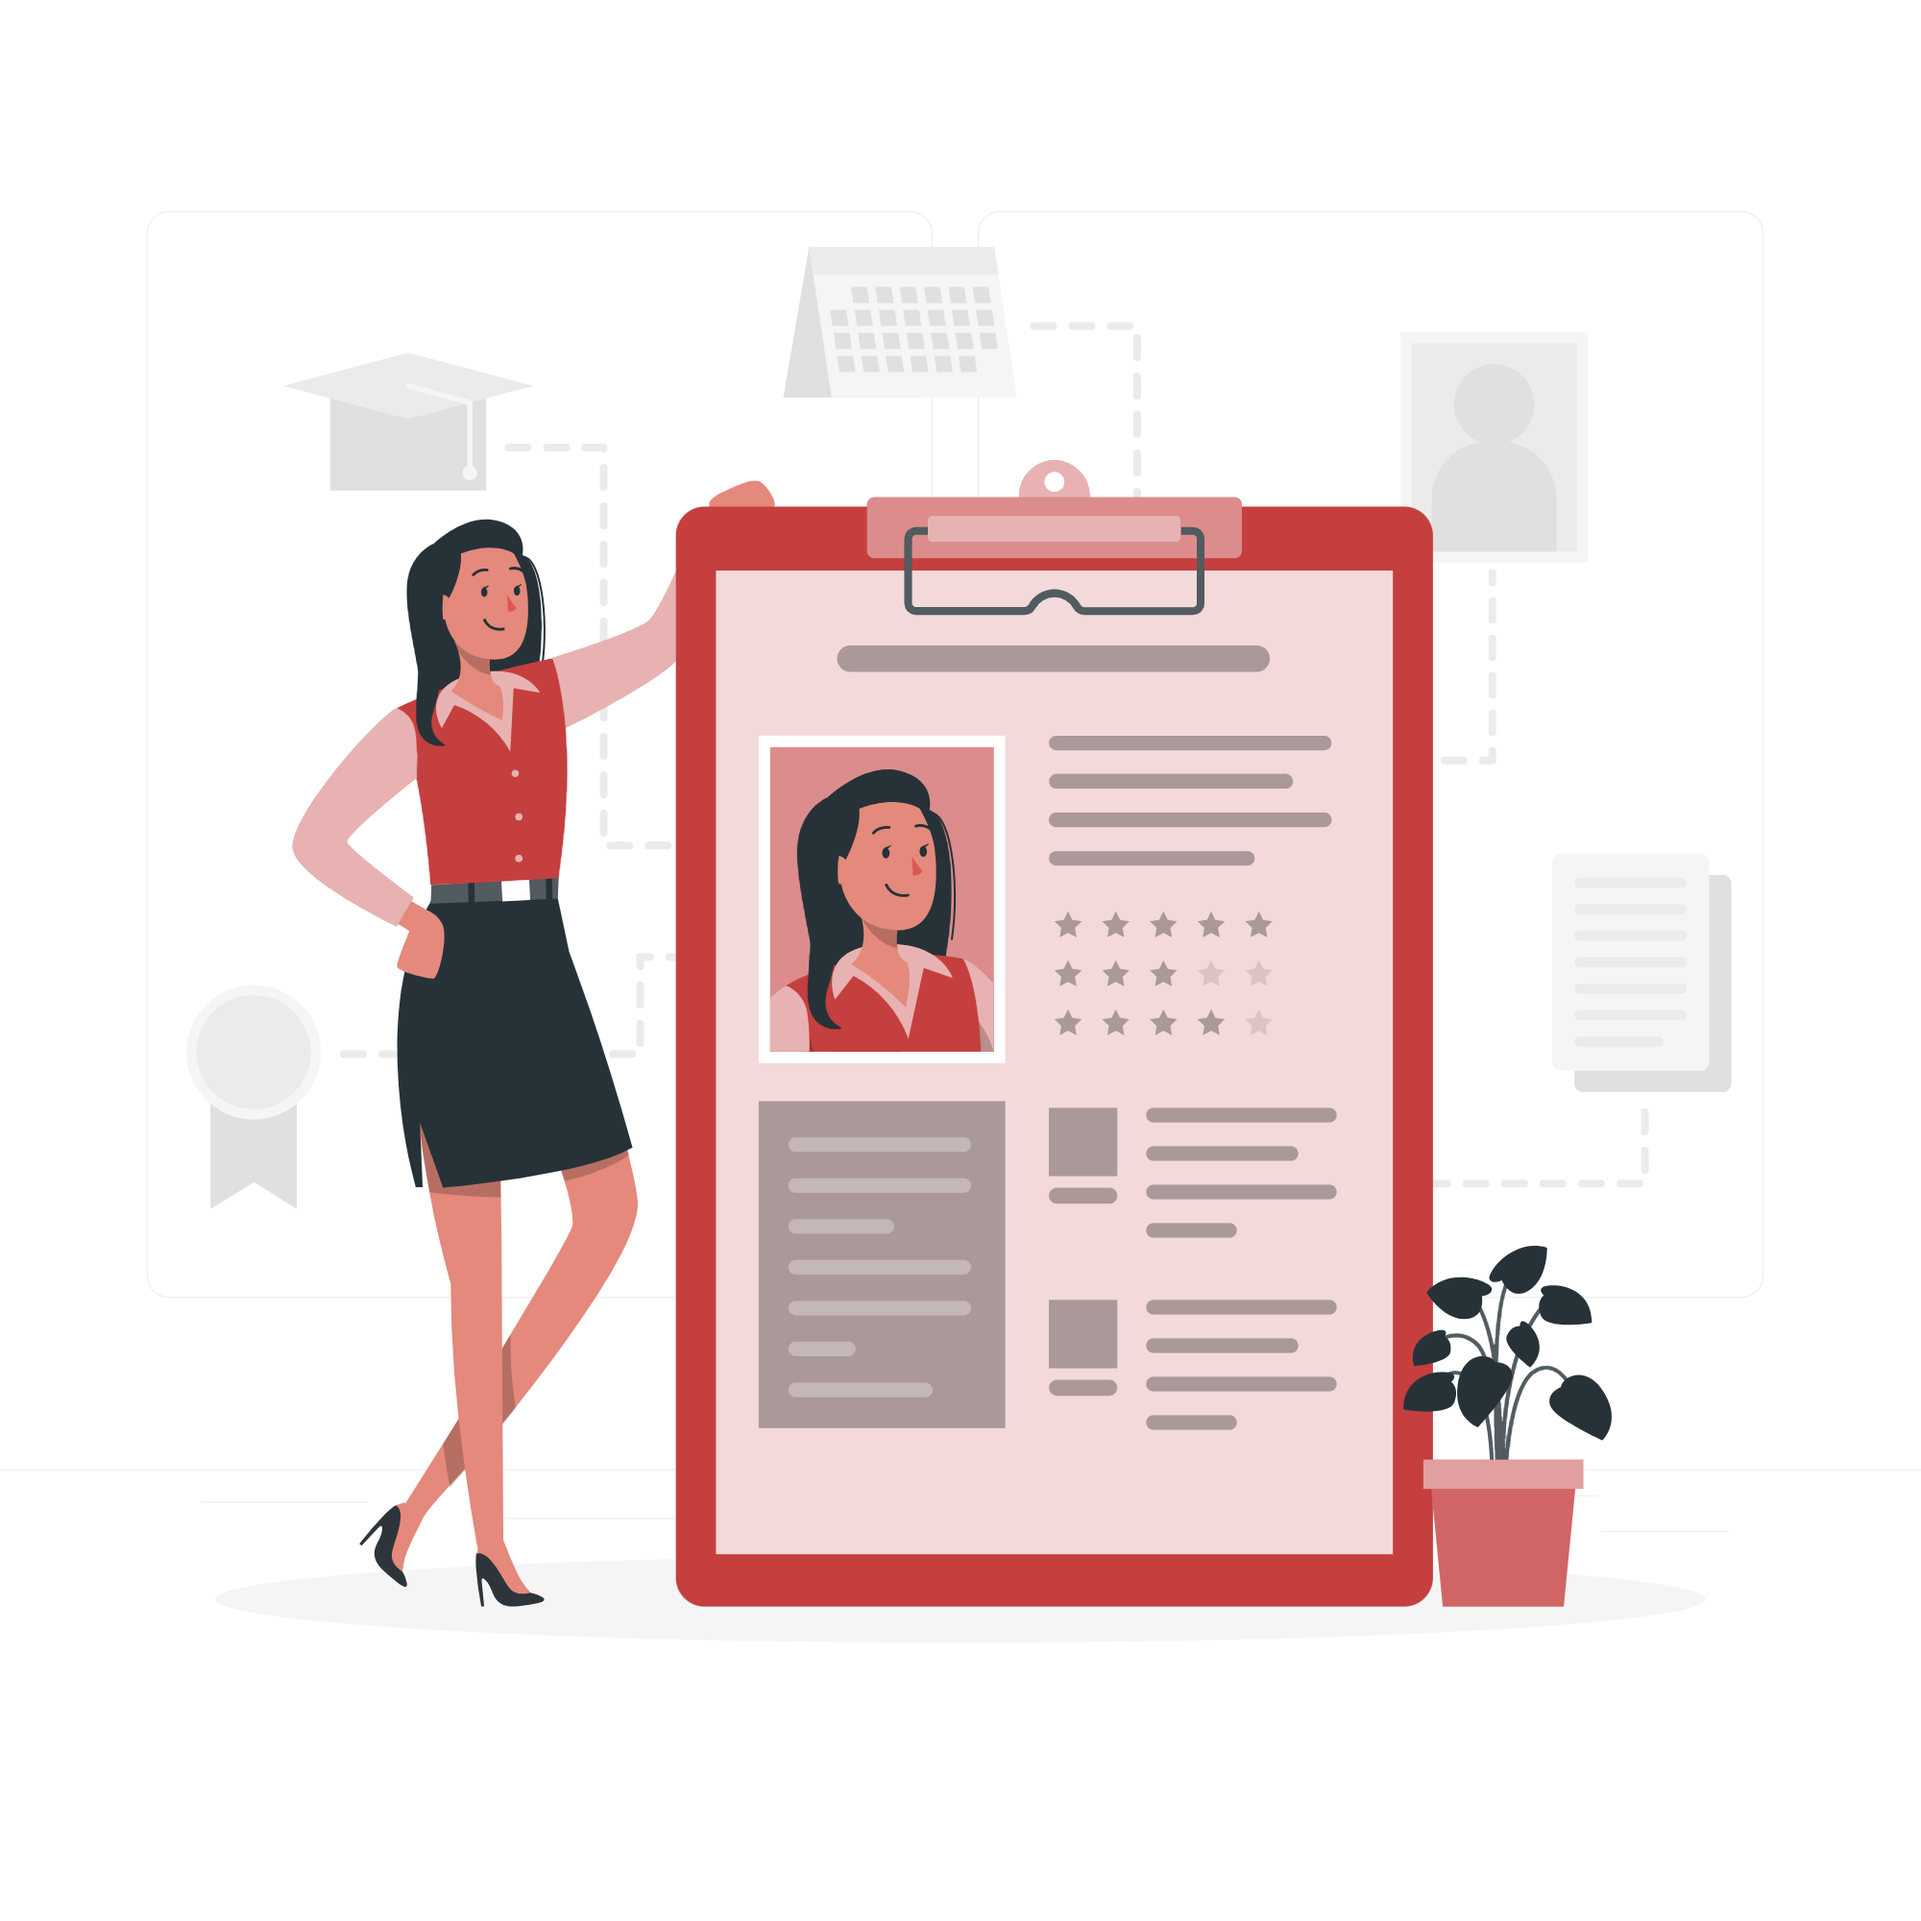
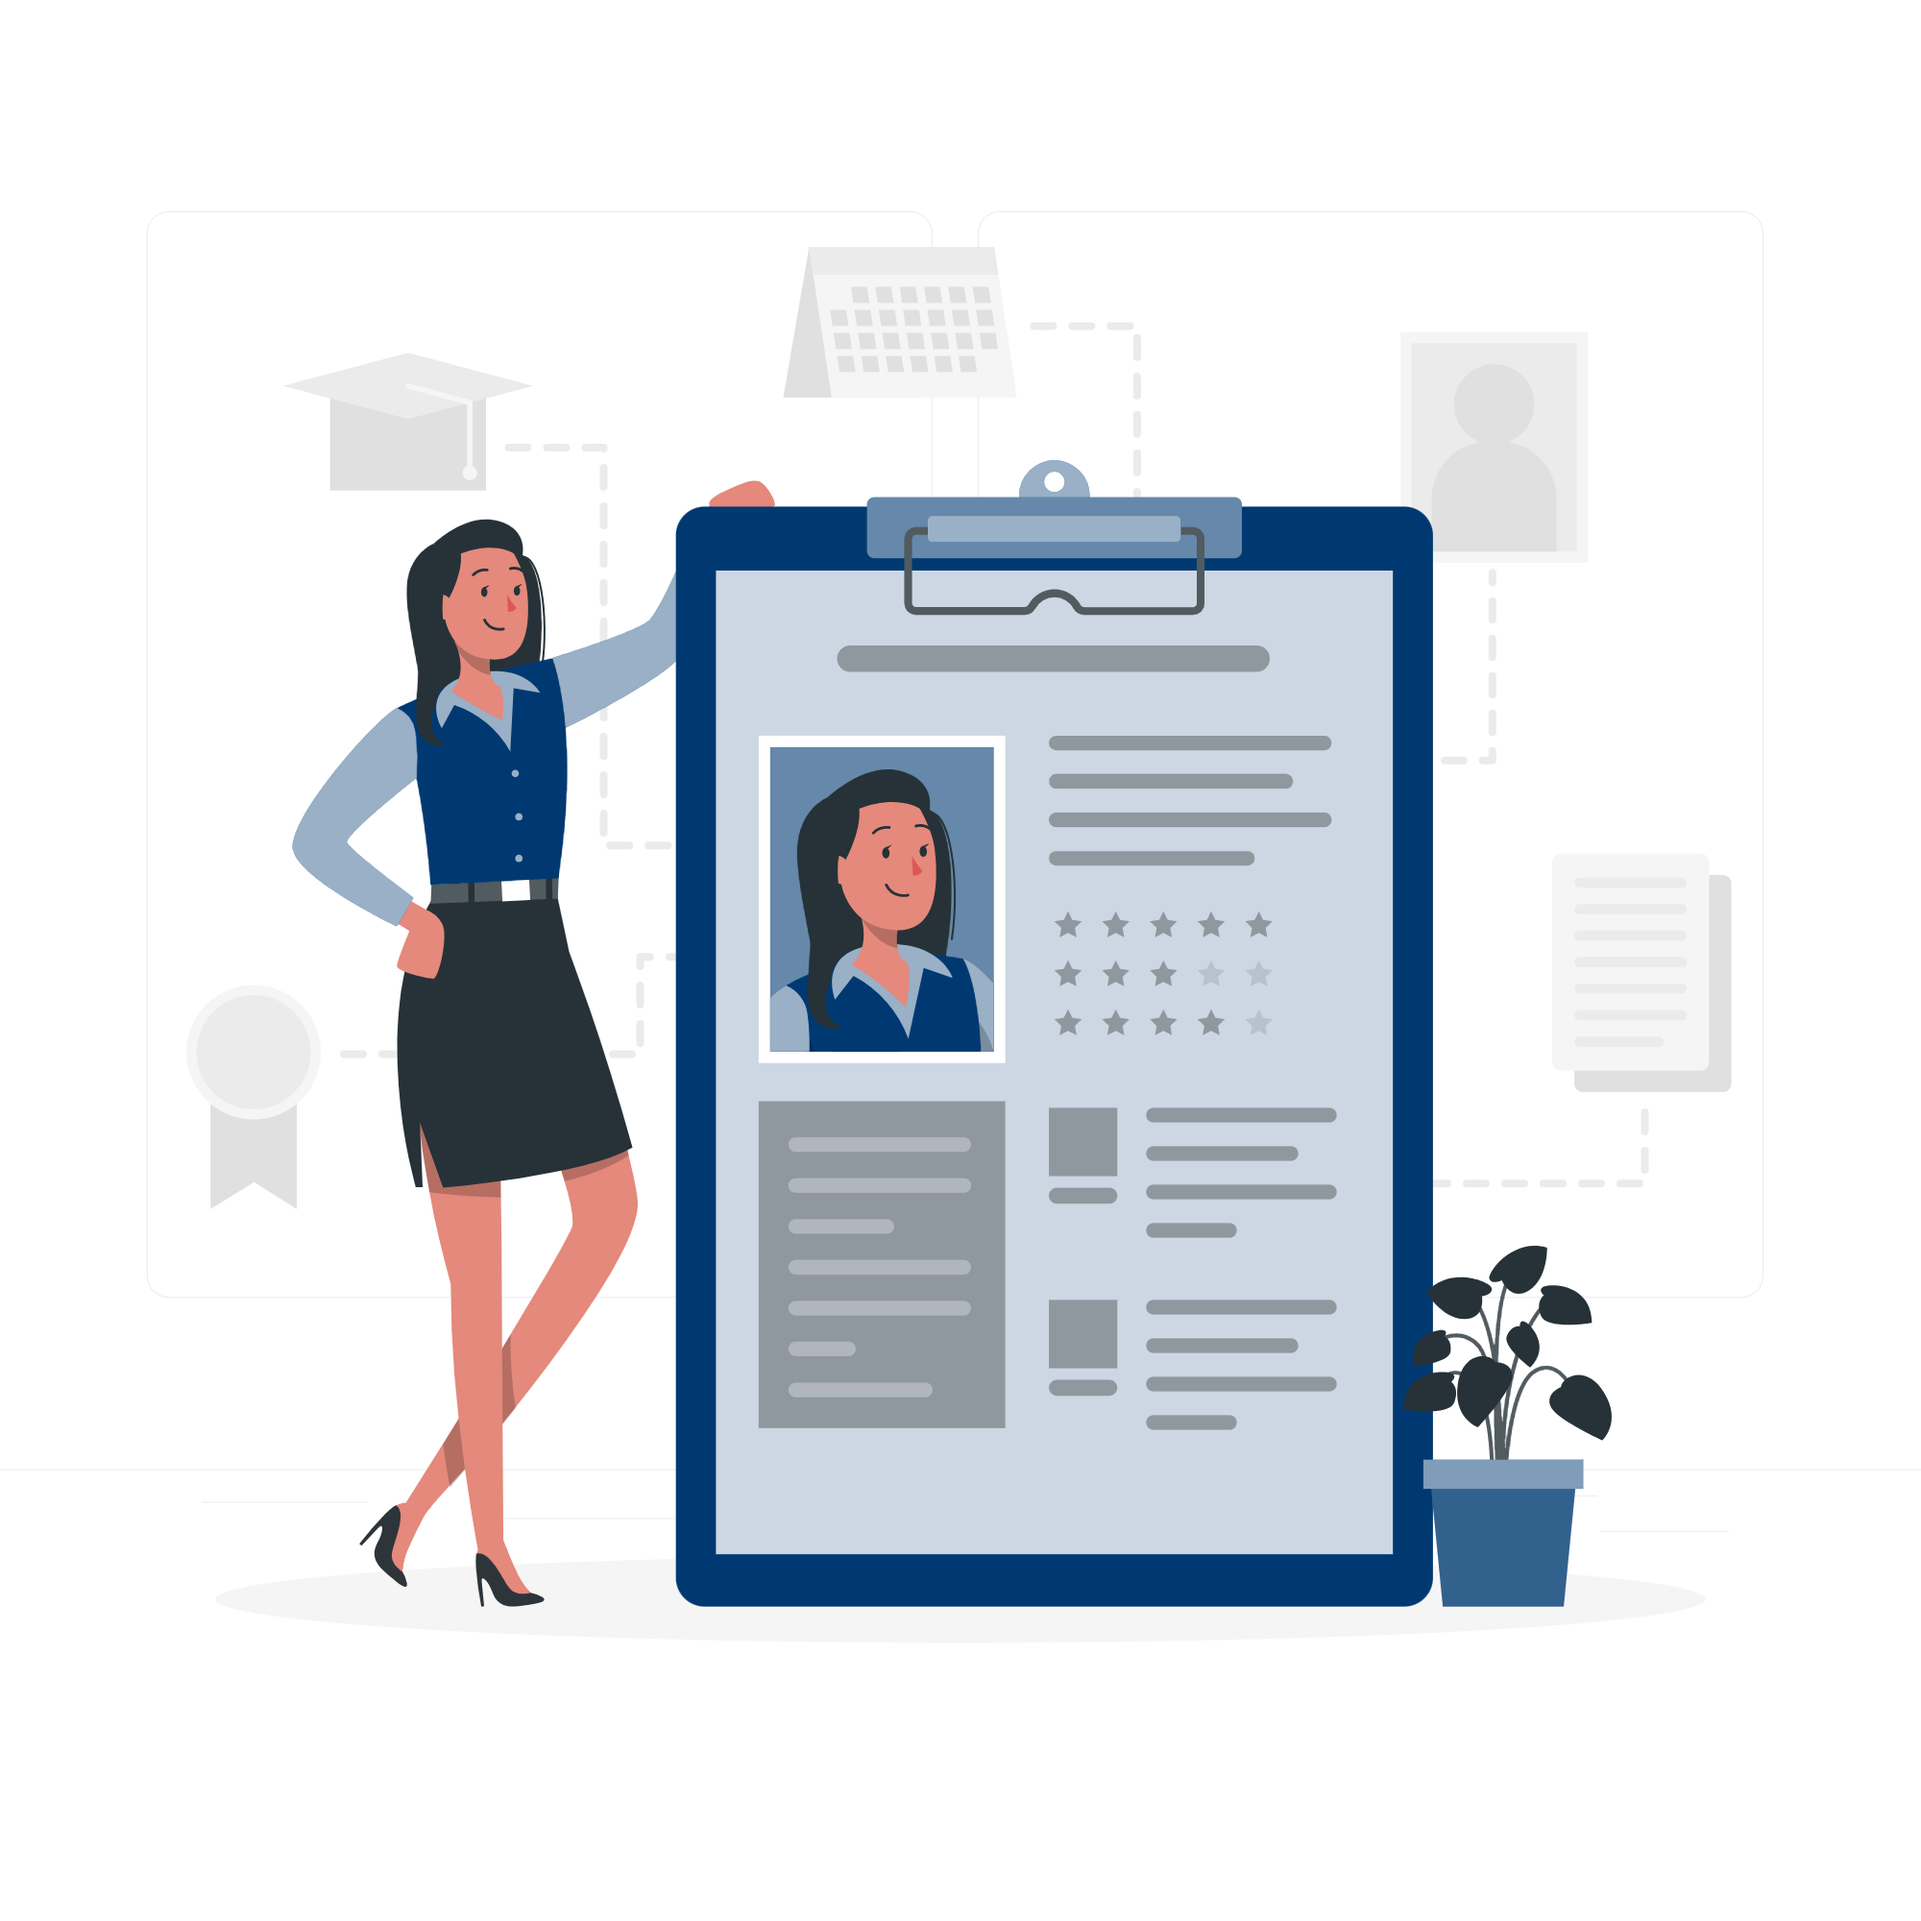
Add Profile Page And Edit image

Changed region(s): [[0.155, 0.217, 0.837, 0.837]]

diff --git a/views/service.html b/views/service.html
@@ -28,8 +28,7 @@
                     <div class="collapse navbar-collapse justify-content-end" id="navbarSupportedContent">
                         <ul class="navbar-nav">
                             <li class="nav-item ">
-                                <a class="nav-link"
-                                    href="profile.html">Profile</a>
+                                <a class="nav-link" href="profile.html">Profile</a>
                             </li>
                             <li class="nav-item ">
                                 <a class="nav-link active" href="service.html">Services</a>
@@ -62,12 +61,13 @@
                                 </div>
                                 <div class="card-body">
                                     <h4 class="card-title mb-4">Corona Vaccine Reservation</h4>
-                                    <p class="card-text lead">Lorem ipsum dolor sit amet, consectetur adipisicing elit.
+                                    <p class="card-text lead mt-3">Lorem ipsum dolor sit amet, consectetur adipisicing
+                                        elit.
                                         Sit
                                         laboriosam deserunt dicta necessitatibus ullam. </p>
                                 </div>
                                 <div class="card-body">
-                                    <a href="new_dose.html" class="card-btn btn btn-front mb-3 py-2">Book Now</a>
+                                    <a href="new_dose.html" class="btn btn-front card-btn mb-1 mt-0 py-2">Book Now</a>
                                 </div>
                             </div>
                         </div>
@@ -79,12 +79,14 @@
                                 </div>
                                 <div class="card-body">
                                     <h4 class="card-title mb-4">Reserve PCR Analysis</h4>
-                                    <p class="card-text lead">Lorem ipsum dolor sit amet, consectetur adipisicing elit.
+                                    <p class="card-text lead mt-3">Lorem ipsum dolor sit amet, consectetur adipisicing
+                                        elit.
                                         Sit
                                         laboriosam deserunt dicta necessitatibus ullam. </p>
                                 </div>
                                 <div class="card-body">
-                                    <a href="test_option.html" class="card-btn btn btn-front mb-3 py-2">Book Now</a>
+                                    <a href="test_option.html" class="btn btn-front card-btn mb-1 mt-0 py-2">Book
+                                        Now</a>
                                 </div>
                             </div>
                         </div>
@@ -96,12 +98,13 @@
                                 </div>
                                 <div class="card-body">
                                     <h4 class="card-title mb-4">Contact With Doctor</h4>
-                                    <p class="card-text lead">Lorem ipsum dolor sit amet, consectetur adipisicing elit.
+                                    <p class="card-text lead mt-3">Lorem ipsum dolor sit amet, consectetur adipisicing
+                                        elit.
                                         Sit
                                         laboriosam deserunt dicta necessitatibus ullam. </p>
                                 </div>
                                 <div class="card-body">
-                                    <a href="contact_doc.html" class="card-btn btn btn-front mb-3 py-2">Contact
+                                    <a href="contact_doc.html" class="btn btn-front card-btn mb-1 mt-0 py-2">Contact
                                         Now</a>
                                 </div>
                             </div>

diff --git a/views/profile.html b/views/profile.html
@@ -6,7 +6,7 @@
     <meta charset="UTF-8">
     <meta name="viewport" content="width=device-width, initial-scale=1.0">
     <meta http-equiv="X-UA-Compatible" content="ie=edge">
-    <title>Services</title>
+    <title>Profile</title>
     <link rel="stylesheet" href="../css/bootstrap.min.css">
     <link rel="stylesheet" href="../css/style.css">
     <link rel="stylesheet" href="../css/all.min.css">
@@ -51,10 +51,11 @@
             </nav>
             <div class="profile-page">
                 <div class="container">
-                    <h2 class="head-cards h1 py-5 text-center">Welcome <span class="user-name">Ali</span> To Kovidio </h2>
+                    <h2 class="head-cards h1 py-5 text-center">Welcome <span class="user-name">Ali</span> To Kovidio
+                    </h2>
                     <div class="row">
                         <div class="user-data col-md-5">
-                            <h4 class="text-center head-cards">Personal Data</h4>
+                            <h2 class="text-center head-cards">Personal Data</h2>
                             <div class="real-data">
                                 <h5>First Name :</h5>
                                 <span class="h5">Ali</span>
@@ -87,17 +88,22 @@
                                 <h5>Birthday :</h5>
                                 <span class="h5">12-1-2001</span>
                             </div>
-                             <div class="card-body text-center d-inline-block">
-                                    <a href="Editprofile.html" class="card-btn btn btn-front mb-3 py-2">Edit Your Profile</a>
+                            <div class="text-center">
+                                <div class="card-body  d-inline-block">
+                                    <a href="Editprofile.html" class="card-btn btn btn-front btn-pro mb-3 py-2">Edit
+                                        Your
+                                        Profile</a>
                                 </div>
-                                <div class="card-body text-center d-inline-block">
-                                    <a href="service.html" class="card-btn btn btn-front mb-3 py-2">Check Service</a>
+                                <div class="card-body  d-inline-block">
+                                    <a href="service.html" class="card-btn btn btn-front btn-pro mb-3 py-2">Check
+                                        Service</a>
                                 </div>
+                            </div>
                         </div>
                         <div class="img-profile col-md-7 text-center">
                             <div class="profile-img ">
-                            <img src="../images/Profile-data-rafiki.png" class="img-fluid" />
-                        </div>
+                                <img src="../images/Profile-data-rafiki.png" class="img-fluid" />
+                            </div>
                         </div>
                     </div>
                 </div>

diff --git a/css/style.css b/css/style.css
@@ -204,10 +204,15 @@ a.link:hover {
 .card {
   transition: 1s all ease-in-out;
   cursor: pointer;
-  border: 1px solid #909090;
+  /* border: 1px solid #909090; */
   background-color: transparent;
+  /* border-radius: 20px; */
+  /* box-shadow: 4px 4px 11px rgb(255 255 255 / 10%); */
+  margin-left:15px ;
+  border: 5px solid  rgba(255,255,255,0.4);
   border-radius: 20px;
-  box-shadow: 4px 4px 11px rgb(255 255 255 / 10%);
+  box-shadow:2px 2px 7px #FFF;
+  cursor: pointer;
 }
 
 .card-img {
@@ -222,8 +227,7 @@ a.link:hover {
 }
 
 .card:hover {
-  border: 3px solid #287aea;
-  background-color: #e3e7f1;
+  transform: scale(1.06);
 }
 
 .head-cards {
@@ -235,16 +239,20 @@ a.link:hover {
 .card-title {
   transition: 1s all ease-in-out;
   color: white;
+  margin-bottom: 10px !important;
 }
-
+.card-text{
+  color: white;
+}
 .card-btn {
   width: 200px;
   border-radius: 50px;
   margin: 0px auto;
+  font-weight: bold;
 }
-.card:hover .card-title {
+/* .card:hover .card-title {
   color: #003971;
-}
+} */
 /* End Services Page Abdelrahman*/
 
 /* Start Contact Form */
@@ -567,8 +575,8 @@ textarea::placeholder {
   margin: 10px auto;
   border-radius: 50px;
   font-size: 23px;
-  background-color: #003971;
-  color: white;
+  background-color: White;
+  color: #003971;
 }
 .head-fog{
   color:white;
@@ -605,33 +613,34 @@ textarea::placeholder {
 
 /* Profile */
 .user-name{
-  color:#032E5A ;
+  color: white;
+  font-family: cursive;
+  cursor: pointer;
 }
 .user-data{
-  border: 5px solid #AE474C;
+  border: 5px solid  rgba(255,255,255,0.3);
   border-radius: 20px;
-  box-shadow:3px 3px 20px #ba494a;
+  box-shadow:1px 1px 15px #FFF;
+  cursor: pointer;
 }
-.user-data h4{
+
+.user-data h2{
   padding-top: 20px;
+  font-family: cursive;
 }
+
 .real-data{
   font-family: Arial, Helvetica, sans-serif;
   margin: 5px;
   padding: 7px;
-
+  color:#FFF;
 }
 
 .real-data h5{
   display: inline-block;
-  color:#ba494a;
- font-weight: bold;
+  font-weight: bold;
 }
 
-.real-data span{
-  color: #FFF;
-font-weight: bold;
-}
 .profile-img{
   width: auto;
   max-height: 500px;
@@ -640,5 +649,12 @@ font-weight: bold;
 .img-fluid{
 width: 80%;
 height: 100%;
+}
+.btn-pro{
+font-weight: bold;
+width: 201px;
+}
+.btn-pro:hover{
+  transform: scale(1.1);
 }
 /* Profile*/
